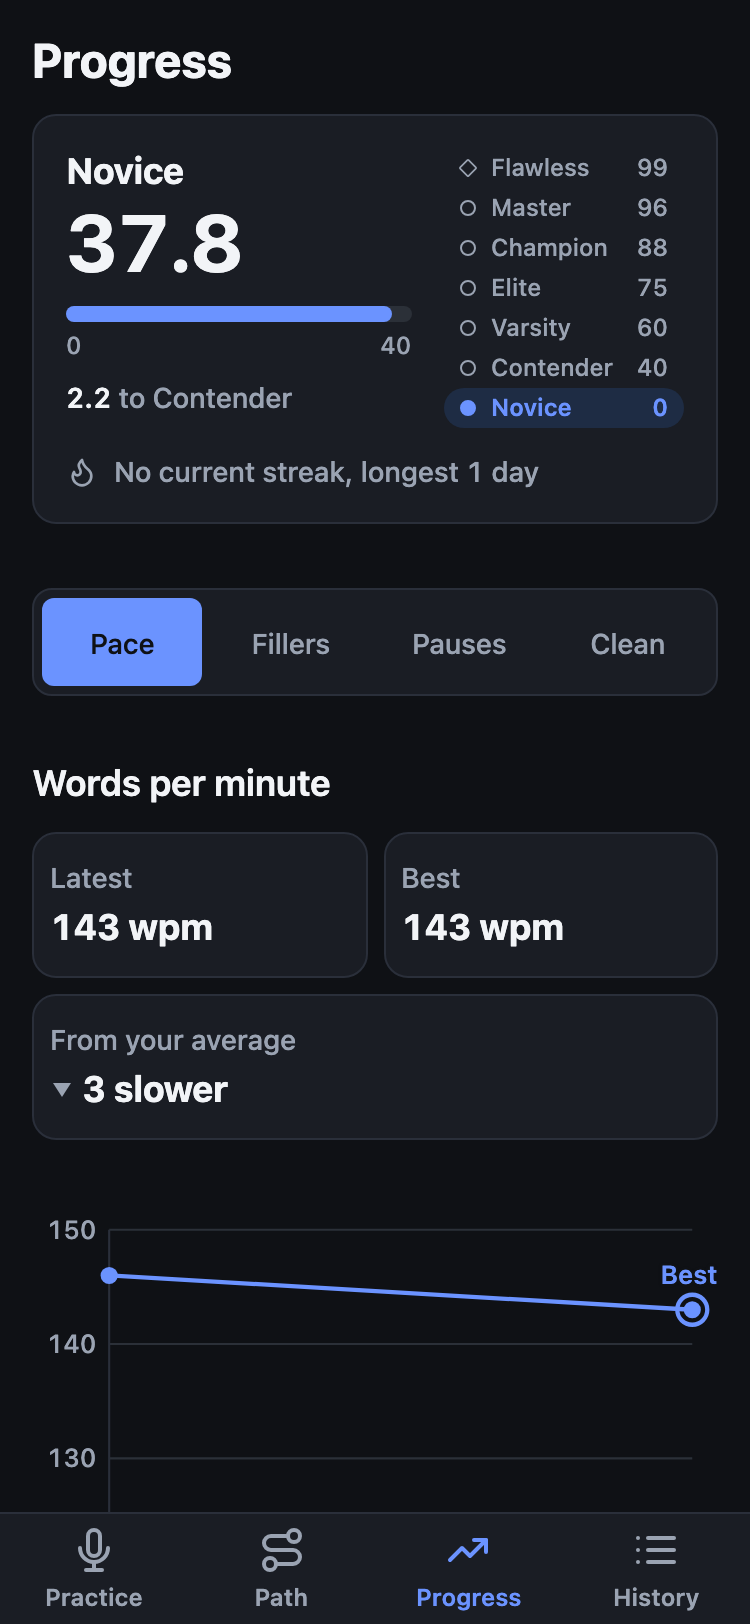
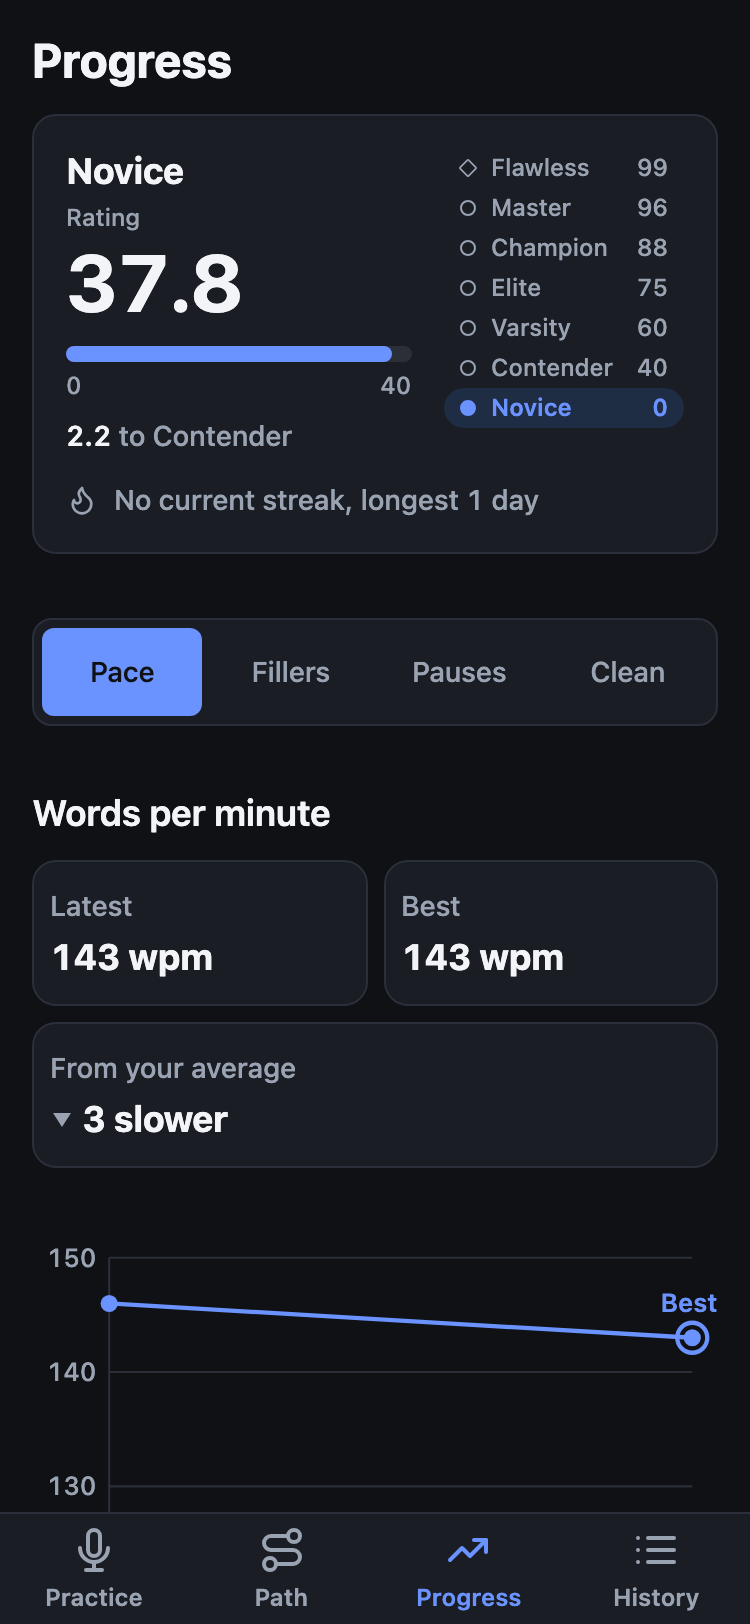
README screenshots show the speech map; the Results bullet and DESIGN.md row describe it
docs/screenshots regenerated with scripts/screenshots.mjs on the seed takes
(Progress and Results, light and dark). README's Results bullet now says
what the speech map does in short sentences; DESIGN.md's screen table names
the cards as controls, the stat strip's hints and the rank card's label.

diff --git a/frontend/DESIGN.md b/frontend/DESIGN.md
@@ -8,7 +8,7 @@ Every screen is built from this file. Angle: **drill-first**. A speaker who want
 |---|---|---|
 | Onboarding | `#/onboarding` | First launch only: what is measured, audio is deleted after analysis, one button. The lead paragraph draws the 64px app icon above itself with `::before` (`icons/icon.svg`), so the screen's DOM is unchanged. |
 | Practice | `#/practice` (default) | Talk on a timed topic or read a passage aloud, record, stop. Home. |
-| Results | `#/results/:id` | A two-sentence headline over the speech map (the take's moments, each a card pinned to its second), a strip of four stats with "vs last take" lines, the rank card, the highlighted transcript, the coach notes or one or two tips. |
+| Results | `#/results/:id` | A two-sentence headline over the speech map (the take's moments as two-line cards beside a rail that is linear in time, each card a button that shows its moment in the transcript; eight cards, then "Show all"), a strip of four stats with hints and "vs last take" lines, the rank card with its labelled rating, the highlighted transcript, the coach notes or one or two tips. |
 | History | `#/history` | Sessions newest first with a status word, tap to reopen, delete with confirm. |
 | Progress | `#/progress` | Metric switch, summary row, hand-rolled SVG line chart with the target band and the personal best. |
 | Path | `#/path` | The skill map: the four units weakest first, each a winding line of level nodes with its crown and checkpoint; the week and due check-back chips; the benchmark when due. No rank. |

diff --git a/README.md b/README.md
@@ -26,9 +26,9 @@ Phone width, light and dark. The history is seeded with two real takes
 
 - Practice, the home screen: pick a timed topic or a passage, tap Record, and Stop uploads
   the take.
-- Results: a two-sentence headline over a speech map, the take's restarts, freezes and
-  fillers each pinned to its second, then four stats, your rank, the transcript with fillers
-  and restarts marked, and two or three cited coach notes.
+- Results: a speech map pins each restart, freeze and filler to its second. Tap a card to
+  see that moment in the transcript. Four stats, your rank, the marked transcript and two or
+  three cited coach notes follow.
 - Progress: one metric charted across your takes, with your latest, your best and your change
   from the average, under your rank and streak.
 - History: every take, newest first, with its pace, fillers per minute and a status word.
